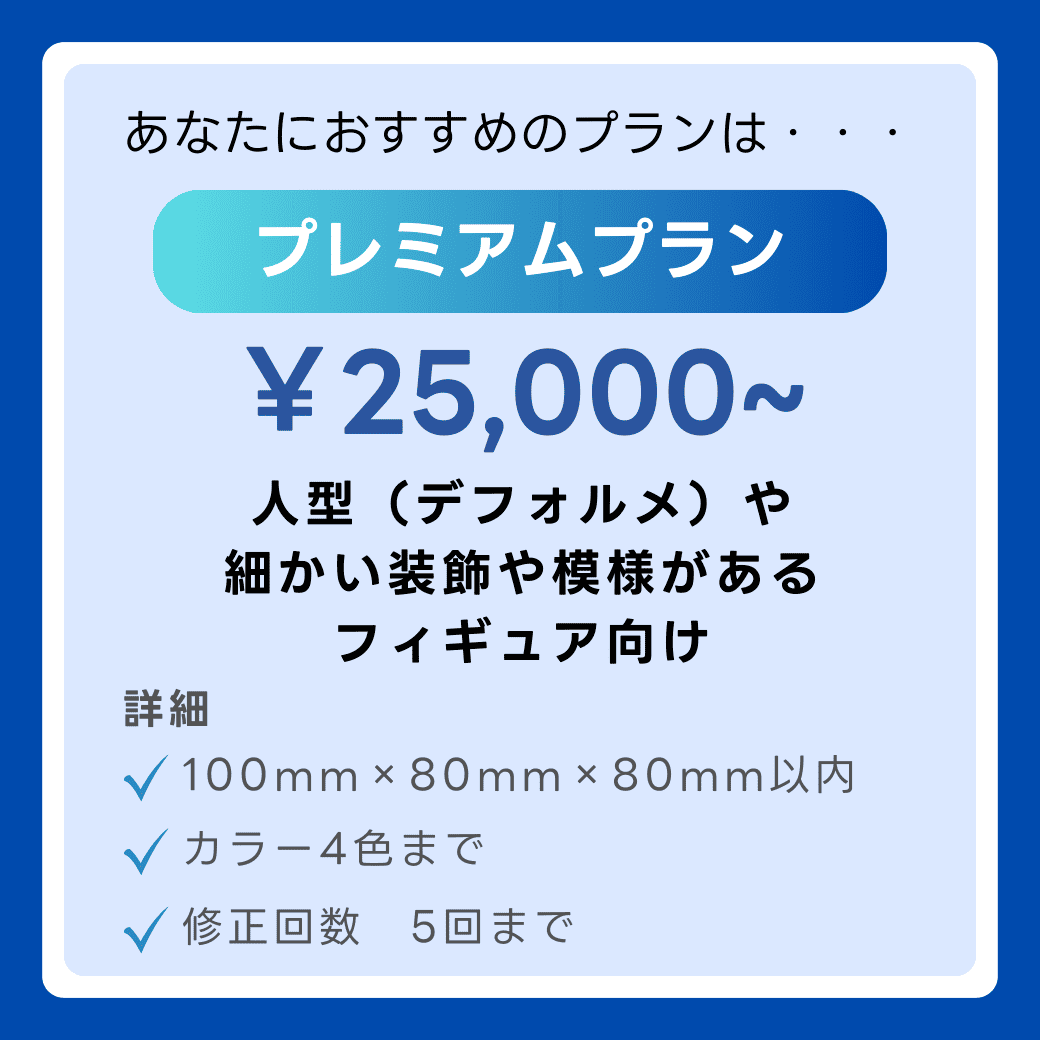
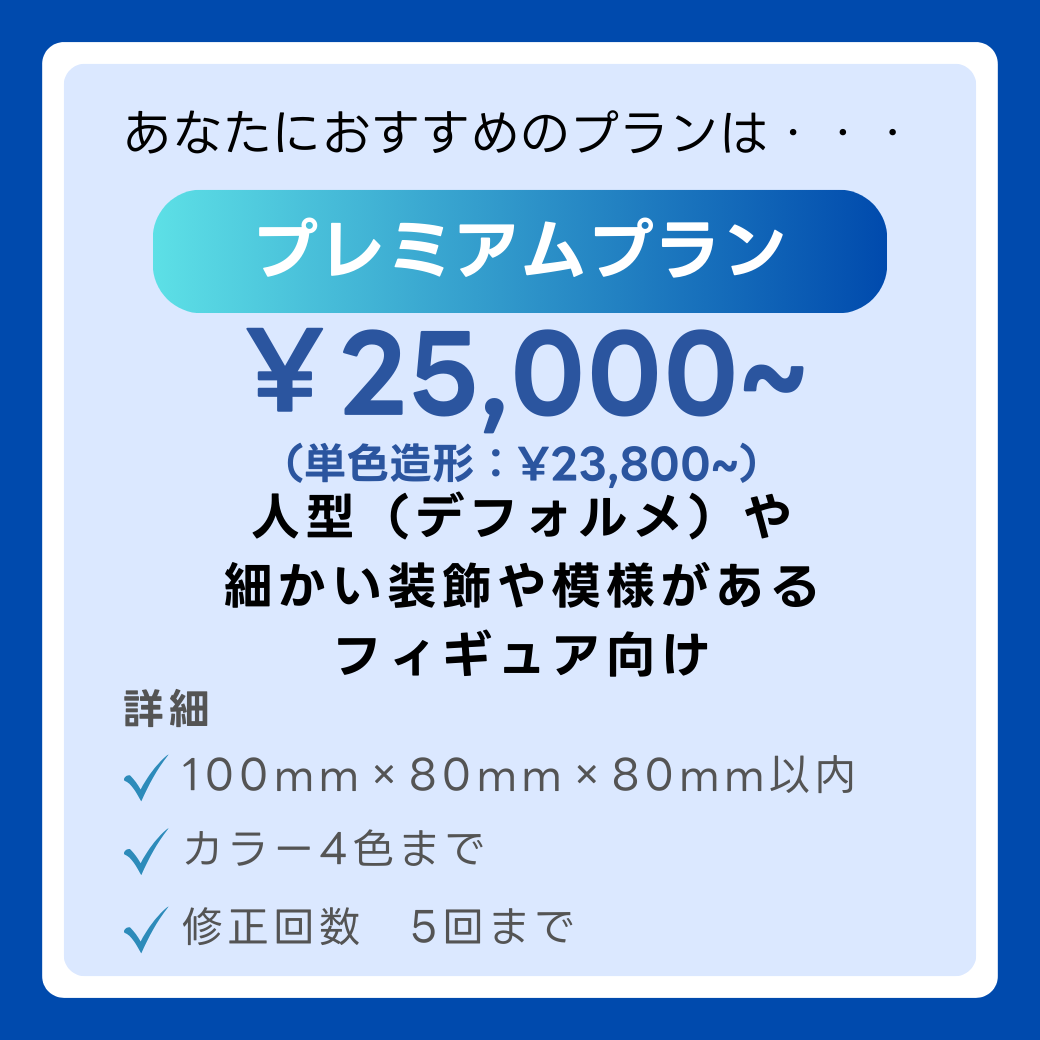
update index.html

Changed region(s): [[0.2154, 0.3077, 0.8, 0.6462]]

diff --git a/index.html b/index.html
@@ -488,7 +488,7 @@
       return canvas;
     }
     
-    // 料金計算用定数・関数
+    // 既存の料金定数
     const basePrices = {
       "ライトプラン": 9000,
       "スタンダードプラン": 15000,
@@ -525,6 +525,7 @@
       }
     };
     
+    // 既存の単体料金（複数カラー用）算出関数
     function getUnitPrice(plan, orderCount) {
       if (orderCount >= 2 && orderCount <= 5) {
         if (plan === "ライトプラン") return 3000;
@@ -554,30 +555,96 @@
       return 0;
     }
     
+    // ここから新規追加：カラー数が1（単色）の場合の料金定数と単体料金算出関数
+    const basePricesMono = {
+      "ライトプラン": 7500,
+      "スタンダードプラン": 13000,
+      "プレミアムプラン": 23800
+    };
+    
+    function getUnitPriceMono(plan, orderCount) {
+      if (orderCount >= 2 && orderCount <= 5) {
+        if (plan === "ライトプラン") return 2500;
+        if (plan === "スタンダードプラン") return 4500;
+        if (plan === "プレミアムプラン") return 6000;
+      } else if (orderCount >= 6 && orderCount <= 9) {
+        if (plan === "ライトプラン") return 2300;
+        if (plan === "スタンダードプラン") return 4000;
+        if (plan === "プレミアムプラン") return 5500;
+      } else if (orderCount >= 10 && orderCount <= 19) {
+        if (plan === "ライトプラン") return 2000;
+        if (plan === "スタンダードプラン") return 3500;
+        if (plan === "プレミアムプラン") return 5300;
+      } else if (orderCount >= 20 && orderCount <= 29) {
+        if (plan === "ライトプラン") return 1900;
+        if (plan === "スタンダードプラン") return 3000;
+        if (plan === "プレミアムプラン") return 4800;
+      } else if (orderCount >= 30 && orderCount <= 39) {
+        if (plan === "ライトプラン") return 1800;
+        if (plan === "スタンダードプラン") return 2900;
+        if (plan === "プレミアムプラン") return 4600;
+      } else if (orderCount >= 40 && orderCount <= 50) {
+        if (plan === "ライトプラン") return 1700;
+        if (plan === "スタンダードプラン") return 2800;
+        if (plan === "プレミアムプラン") return 4400;
+      }
+      return 0;
+    }
+    
+    // 料金計算関数
     function calculatePrice(plan, orderCount, selectedSize, colorCount, baseOption) {
-      const basePrice = basePrices[plan];
-      const unitPrice = getUnitPrice(plan, orderCount);
-      const sizeOption = sizeCosts[plan][selectedSize];
-      if (sizeOption === "制作不可") {
-        return { total: "選択されたサイズは制作不可です。", breakdown: "" };
-      }
-      let extraColorCost = 0;
-      if (plan === "ライトプラン") {
-        if (colorCount > 3) extraColorCost = (colorCount - 3) * 1500;
+      // カラー数が1の場合は単色料金で計算
+      if (colorCount === 1) {
+        const basePrice = basePricesMono[plan];
+        const unitPrice = getUnitPriceMono(plan, orderCount);
+        const sizeOption = sizeCosts[plan][selectedSize];
+        if (sizeOption === "制作不可") {
+          return { total: "選択されたサイズは制作不可です。", breakdown: "" };
+        }
+        let baseOptionCost = 0;
+        if (baseOption === "ワンカラー台座") baseOptionCost = 300;
+        else if (baseOption === "デザイン台座") baseOptionCost = 500;
+        
+        const additionalUnitsCost = (orderCount - 1) * unitPrice;
+        const sizeCostTotal = sizeOption * orderCount;
+        const baseOptionTotal = baseOptionCost * orderCount;
+        
+        const total = basePrice + additionalUnitsCost + sizeCostTotal + baseOptionTotal;
+        
+        const breakdown = `内訳:
+・基本料金: ${basePrice.toLocaleString()}円
+・追加料金: ${additionalUnitsCost.toLocaleString()}円
+・サイズアップ: ${sizeCostTotal.toLocaleString()}円
+・台座: ${baseOptionTotal.toLocaleString()}円
+-----------------------
+合計金額: ${total.toLocaleString()}円`;
+        
+        return { total, breakdown };
       } else {
-        if (colorCount > 4) extraColorCost = (colorCount - 4) * 1500;
-      }
-      let baseOptionCost = 0;
-      if (baseOption === "ワンカラー台座") baseOptionCost = 300;
-      else if (baseOption === "デザイン台座") baseOptionCost = 500;
-      
-      const additionalUnitsCost = (orderCount - 1) * unitPrice;
-      const sizeCostTotal = sizeOption * orderCount;
-      const baseOptionTotal = baseOptionCost * orderCount;
-      
-      const total = basePrice + additionalUnitsCost + sizeCostTotal + baseOptionTotal + extraColorCost;
-      
-      const breakdown = `内訳:
+        // カラー数が1以外の場合（既存の料金プラン）
+        const basePrice = basePrices[plan];
+        const unitPrice = getUnitPrice(plan, orderCount);
+        const sizeOption = sizeCosts[plan][selectedSize];
+        if (sizeOption === "制作不可") {
+          return { total: "選択されたサイズは制作不可です。", breakdown: "" };
+        }
+        let extraColorCost = 0;
+        if (plan === "ライトプラン") {
+          if (colorCount > 3) extraColorCost = (colorCount - 3) * 1500;
+        } else {
+          if (colorCount > 4) extraColorCost = (colorCount - 4) * 1500;
+        }
+        let baseOptionCost = 0;
+        if (baseOption === "ワンカラー台座") baseOptionCost = 300;
+        else if (baseOption === "デザイン台座") baseOptionCost = 500;
+        
+        const additionalUnitsCost = (orderCount - 1) * unitPrice;
+        const sizeCostTotal = sizeOption * orderCount;
+        const baseOptionTotal = baseOptionCost * orderCount;
+        
+        const total = basePrice + additionalUnitsCost + sizeCostTotal + baseOptionTotal + extraColorCost;
+        
+        const breakdown = `内訳:
 ・基本料金: ${basePrice.toLocaleString()}円
 ・追加料金: ${additionalUnitsCost.toLocaleString()}円
 ・サイズアップ: ${sizeCostTotal.toLocaleString()}円
@@ -585,8 +652,9 @@
 ・カラー追加: ${extraColorCost.toLocaleString()}円
 -----------------------
 合計金額: ${total.toLocaleString()}円`;
-      
-      return { total, breakdown };
+        
+        return { total, breakdown };
+      }
     }
     
     // ファイル選択・ドラッグ＆ドロップ処理
@@ -643,10 +711,16 @@
           const orderCount = parseInt(document.getElementById("orderCountSelect").value);
           const baseOption = document.querySelector('input[name="baseOption"]:checked').value;
           
+          // カラー数が1の場合、診断結果のプラン名に「（単色造形）」を追加
+          let displayPlan = plan;
+          if (selectedColor === 1) {
+            displayPlan += "（単色造形）";
+          }
+          document.getElementById("resultText").innerText = displayPlan;
+          
           const priceResult = calculatePrice(plan, orderCount, selectedSize, selectedColor, baseOption);
           
           document.getElementById("modalImage").src = previewImg.src;
-          document.getElementById("resultText").innerText = plan;
           if (typeof priceResult.total === "string") {
             document.getElementById("priceResult").innerText = priceResult.total;
           } else {
